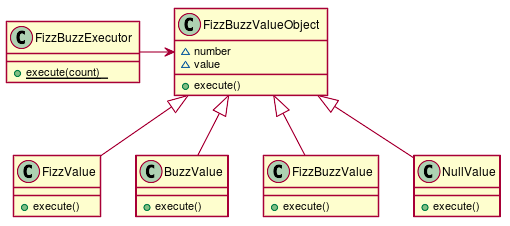
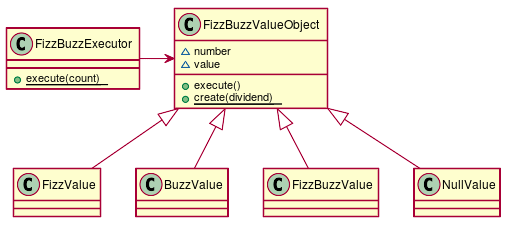
イテレーション４

diff --git a/spec/fizz_buzz/fizz_buzz_spec.rb b/spec/fizz_buzz/fizz_buzz_spec.rb
@@ -5,31 +5,40 @@ require 'spec_helper'
 RSpec.describe FizzBuzzValueObject do
   describe '#execute' do
     it 'return Fizz' do
-      value = FizzBuzzValueObject.new(3)
+      number = 3
+      value = create_value_object(number)
       result = value.execute
       expect('Fizz').to eq result
     end
 
     it 'return Buzz' do
-      value = FizzBuzzValueObject.new(5)
+      number = 5
+      value = create_value_object(number)
       result = value.execute
       expect('Buzz').to eq result
     end
 
     it 'return FizzBuzz' do
-      value = FizzBuzzValueObject.new(15)
+      number = 15
+      value = create_value_object(number)
       result = value.execute
       expect('FizzBuzz').to eq result
 
-      value = FizzBuzzValueObject.new(45)
+      number = 45
+      value = create_value_object(number)
       result = value.execute
       expect('FizzBuzz').to eq result
     end
 
     it 'return nil' do
-      value = FizzBuzzValueObject.new(1)
+      number = 1
+      value = create_value_object(number)
       result = value.execute
       expect(result).to be_nil
     end
+  end
+
+  def create_value_object(number)
+    FizzBuzzValueObject.create(number)
   end
 end

diff --git a/lib/fizz_buzz/fizz_buzz_value_object.rb b/lib/fizz_buzz/fizz_buzz_value_object.rb
@@ -4,20 +4,17 @@
 class FizzBuzzValueObject
   attr_reader :number, :value
 
-  def initialize(dividend)
-    @number = dividend
-    @value_object = if (dividend % 3).zero? && (dividend % 5).zero?
-                      FizzBuzzValue.new(dividend)
-                    elsif (dividend % 3).zero?
-                      FizzValue.new(dividend)
-                    elsif (dividend % 5).zero?
-                      BuzzValue.new(dividend)
-                    else
-                      NullValue.new(dividend)
-                    end
-  end
+  def execute; end
 
-  def execute
-    @value_object.execute
+  def self.create(dividend)
+    if (dividend % 3).zero? && (dividend % 5).zero?
+      FizzBuzzValue.new(dividend)
+    elsif (dividend % 3).zero?
+      FizzValue.new(dividend)
+    elsif (dividend % 5).zero?
+      BuzzValue.new(dividend)
+    else
+      NullValue.new(dividend)
+    end
   end
 end

diff --git a/lib/fizz_buzz/fizz_buzz_executor.rb b/lib/fizz_buzz/fizz_buzz_executor.rb
@@ -6,7 +6,7 @@ class FizzBuzzExecutor
     result = nil
     i = 1
     while i <= count
-      value = FizzBuzzValueObject.new(i)
+      value = FizzBuzzValueObject.create(i)
       result = value.execute
       i += 1
     end

diff --git a/lib/fizz_buzz/fizz_buzz_value.rb b/lib/fizz_buzz/fizz_buzz_value.rb
@@ -2,9 +2,11 @@
 
 # FizzBuzz value object
 class FizzBuzzValue < FizzBuzzValueObject
+  VALUE = 'FizzBuzz'
+
   def initialize(number)
     @number = number
-    @value = 'FizzBuzz'
+    @value = VALUE
   end
 
   def execute

diff --git a/lib/fizz_buzz/buzz_value.rb b/lib/fizz_buzz/buzz_value.rb
@@ -2,9 +2,11 @@
 
 # Buzz value object
 class BuzzValue < FizzBuzzValueObject
+  VALUE = 'Buzz'
+
   def initialize(number)
     @number = number
-    @value = 'Buzz'
+    @value = VALUE
   end
 
   def execute

diff --git a/lib/fizz_buzz/fizz_value.rb b/lib/fizz_buzz/fizz_value.rb
@@ -2,9 +2,11 @@
 
 # Fizz value object
 class FizzValue < FizzBuzzValueObject
+  VALUE = 'Fizz'
+
   def initialize(number)
     @number = number
-    @value = 'Fizz'
+    @value = VALUE
   end
 
   def execute
